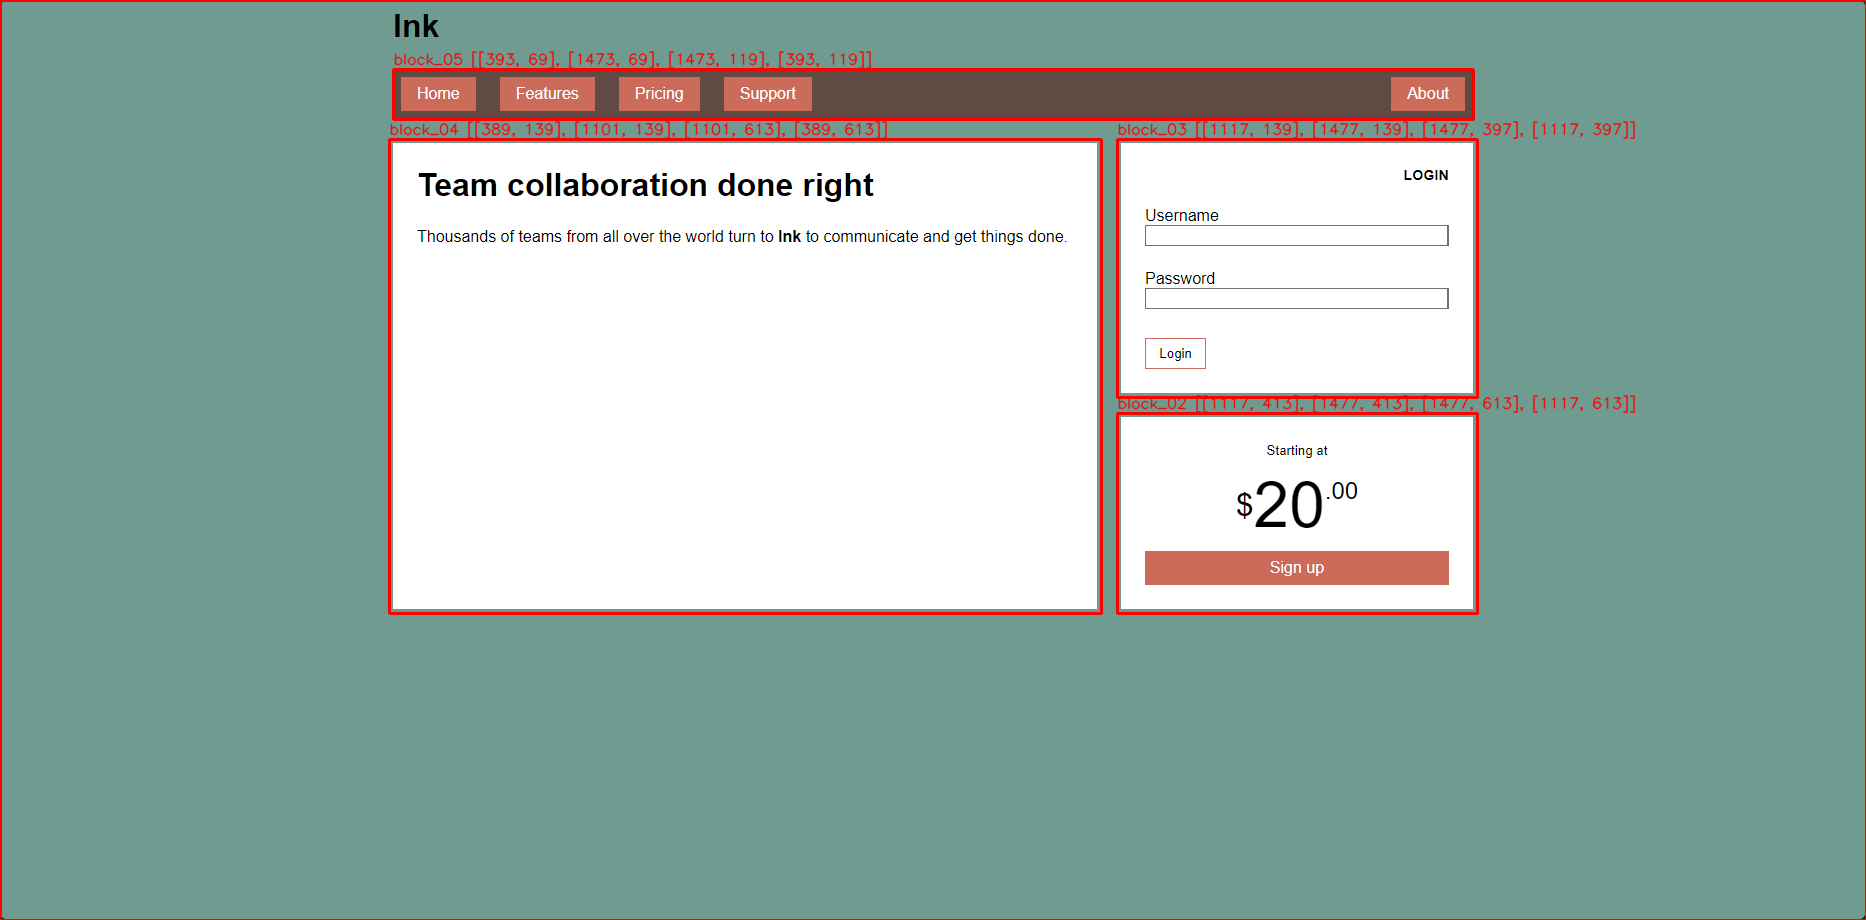
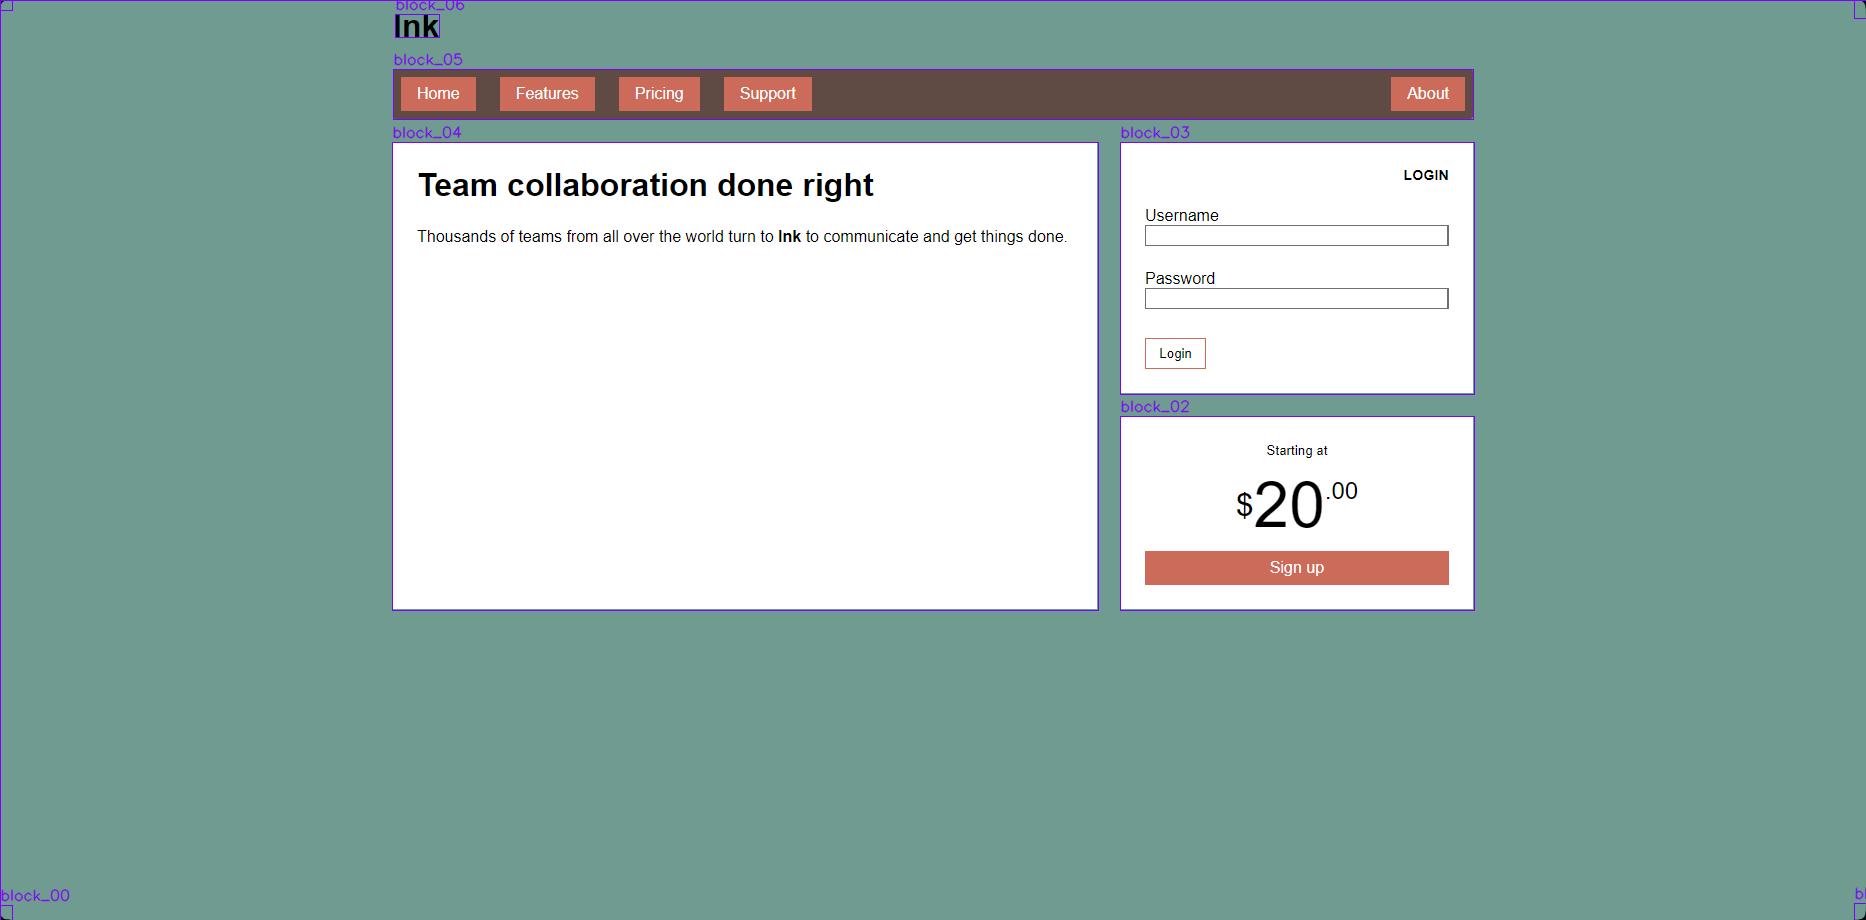
Usability polishing in procces of tuning parameters

diff --git a/layout_mapper/render_bboxes.py b/layout_mapper/render_bboxes.py
@@ -9,7 +9,7 @@ IMAGE_FILE = 'website_template_3.png'
 # Итоговое изображение с нарисованными контурами и подписями
 OUTPUT_FILE = 'annotated_result.png'
 
-def draw_block_recursively(image, block_dict, block_name, color=(0, 0, 255), thickness=2):
+def draw_block_recursively(image, block_dict, block_name, color, thickness):
     """
     Рекурсивно рисует блок и его вложенные блоки на изображении.
     
@@ -26,12 +26,13 @@ def draw_block_recursively(image, block_dict, block_name, color=(0, 0, 255), thi
     # Рисуем многоугольник (замкнутый контур)
     cv2.polylines(image, [coords_array], isClosed=True, color=color, thickness=thickness)
 
+
     # Чтобы красиво расположить текст, возьмём первую вершину (или любую)
     x_text, y_text = coords[0]
 
-    # Подпишем блок: блок-ид + координаты
-    # Можно сделать более кратко или наоборот подробнее
-    text = f"{block_name} {coords}"
+    # Подпишем блок: блок-id + координаты
+    # text = f"{block_name} {coords}"
+    text = f"{block_name}"
     cv2.putText(
         image,
         text,

diff --git a/layout_mapper/app.py b/layout_mapper/app.py
@@ -57,10 +57,7 @@ def main():
                 st.warning("Нет исходного изображения в session_state.original_image")
             else:
                 # Аннотируем
-                annotated_img = annotate_image(st.session_state.original_image,
-                                               st.session_state.result_json,
-                                               color=(0, 0, 255),
-                                               thickness=2)
+                annotated_img = annotate_image(st.session_state.original_image, st.session_state.result_json, (255, 0, 127), 1)
                 cv2.imwrite("annotated_result.png", annotated_img)
                 st.success("Результат сохранён в файл annotated_result.png")
 
